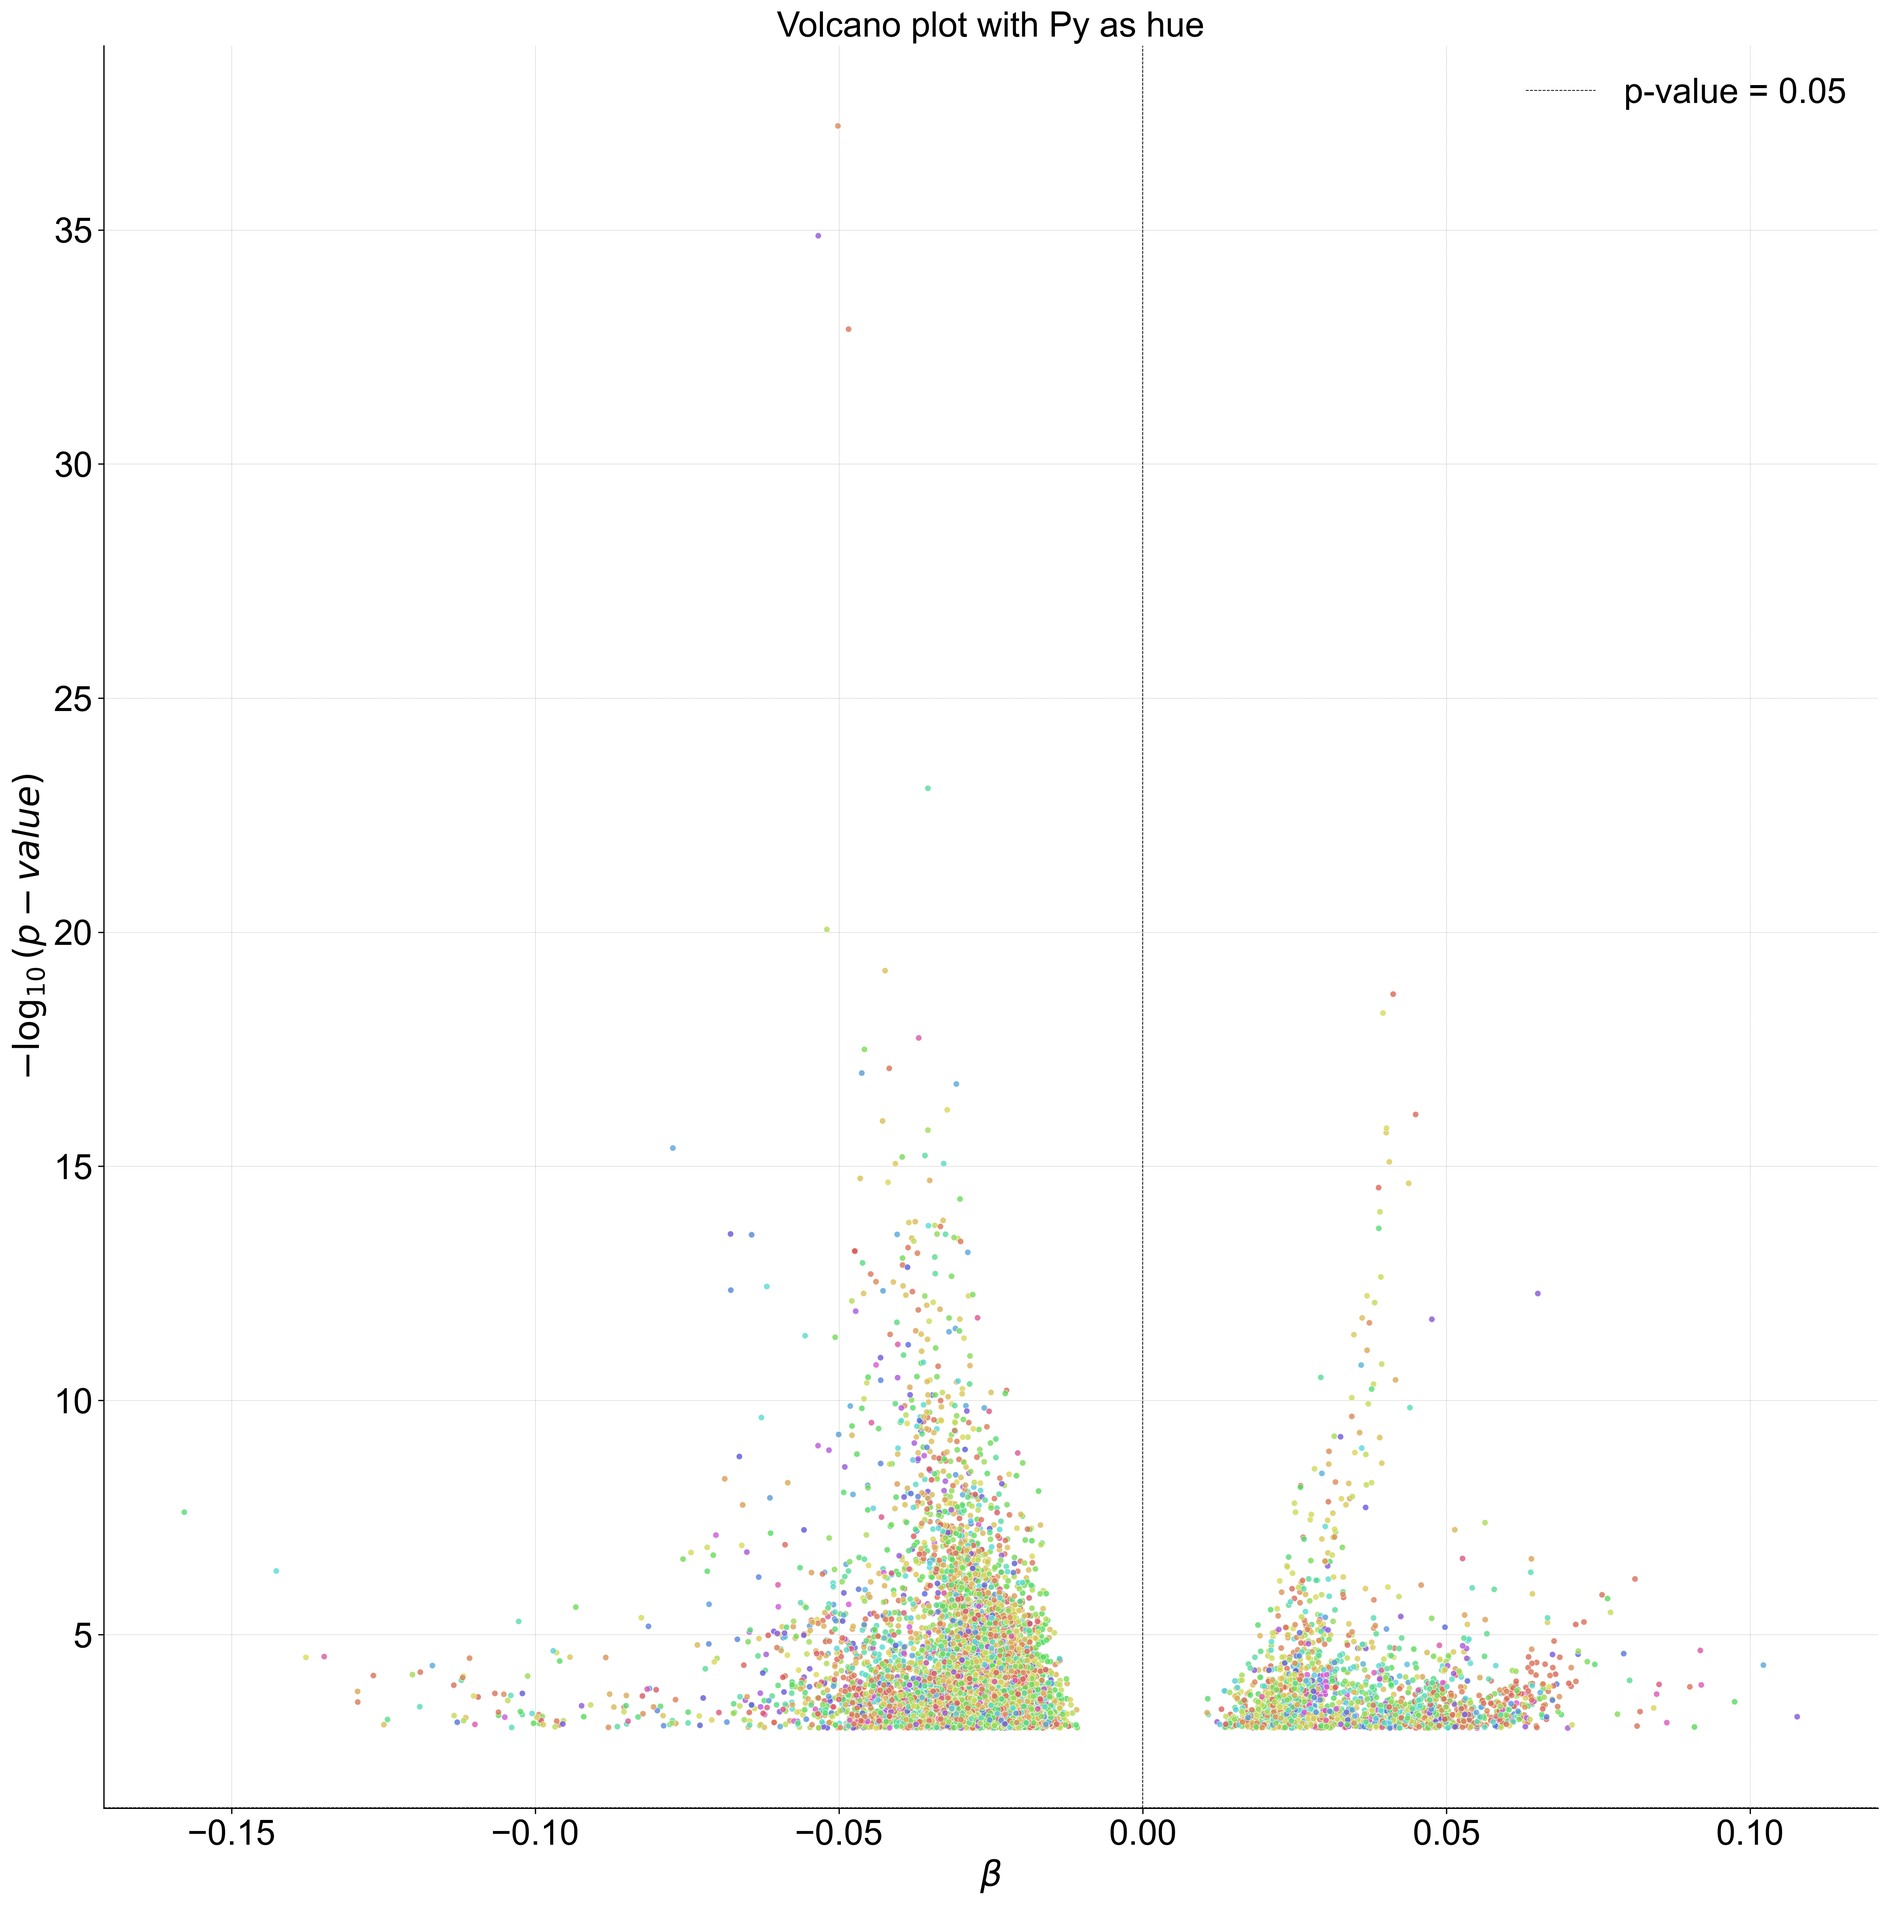
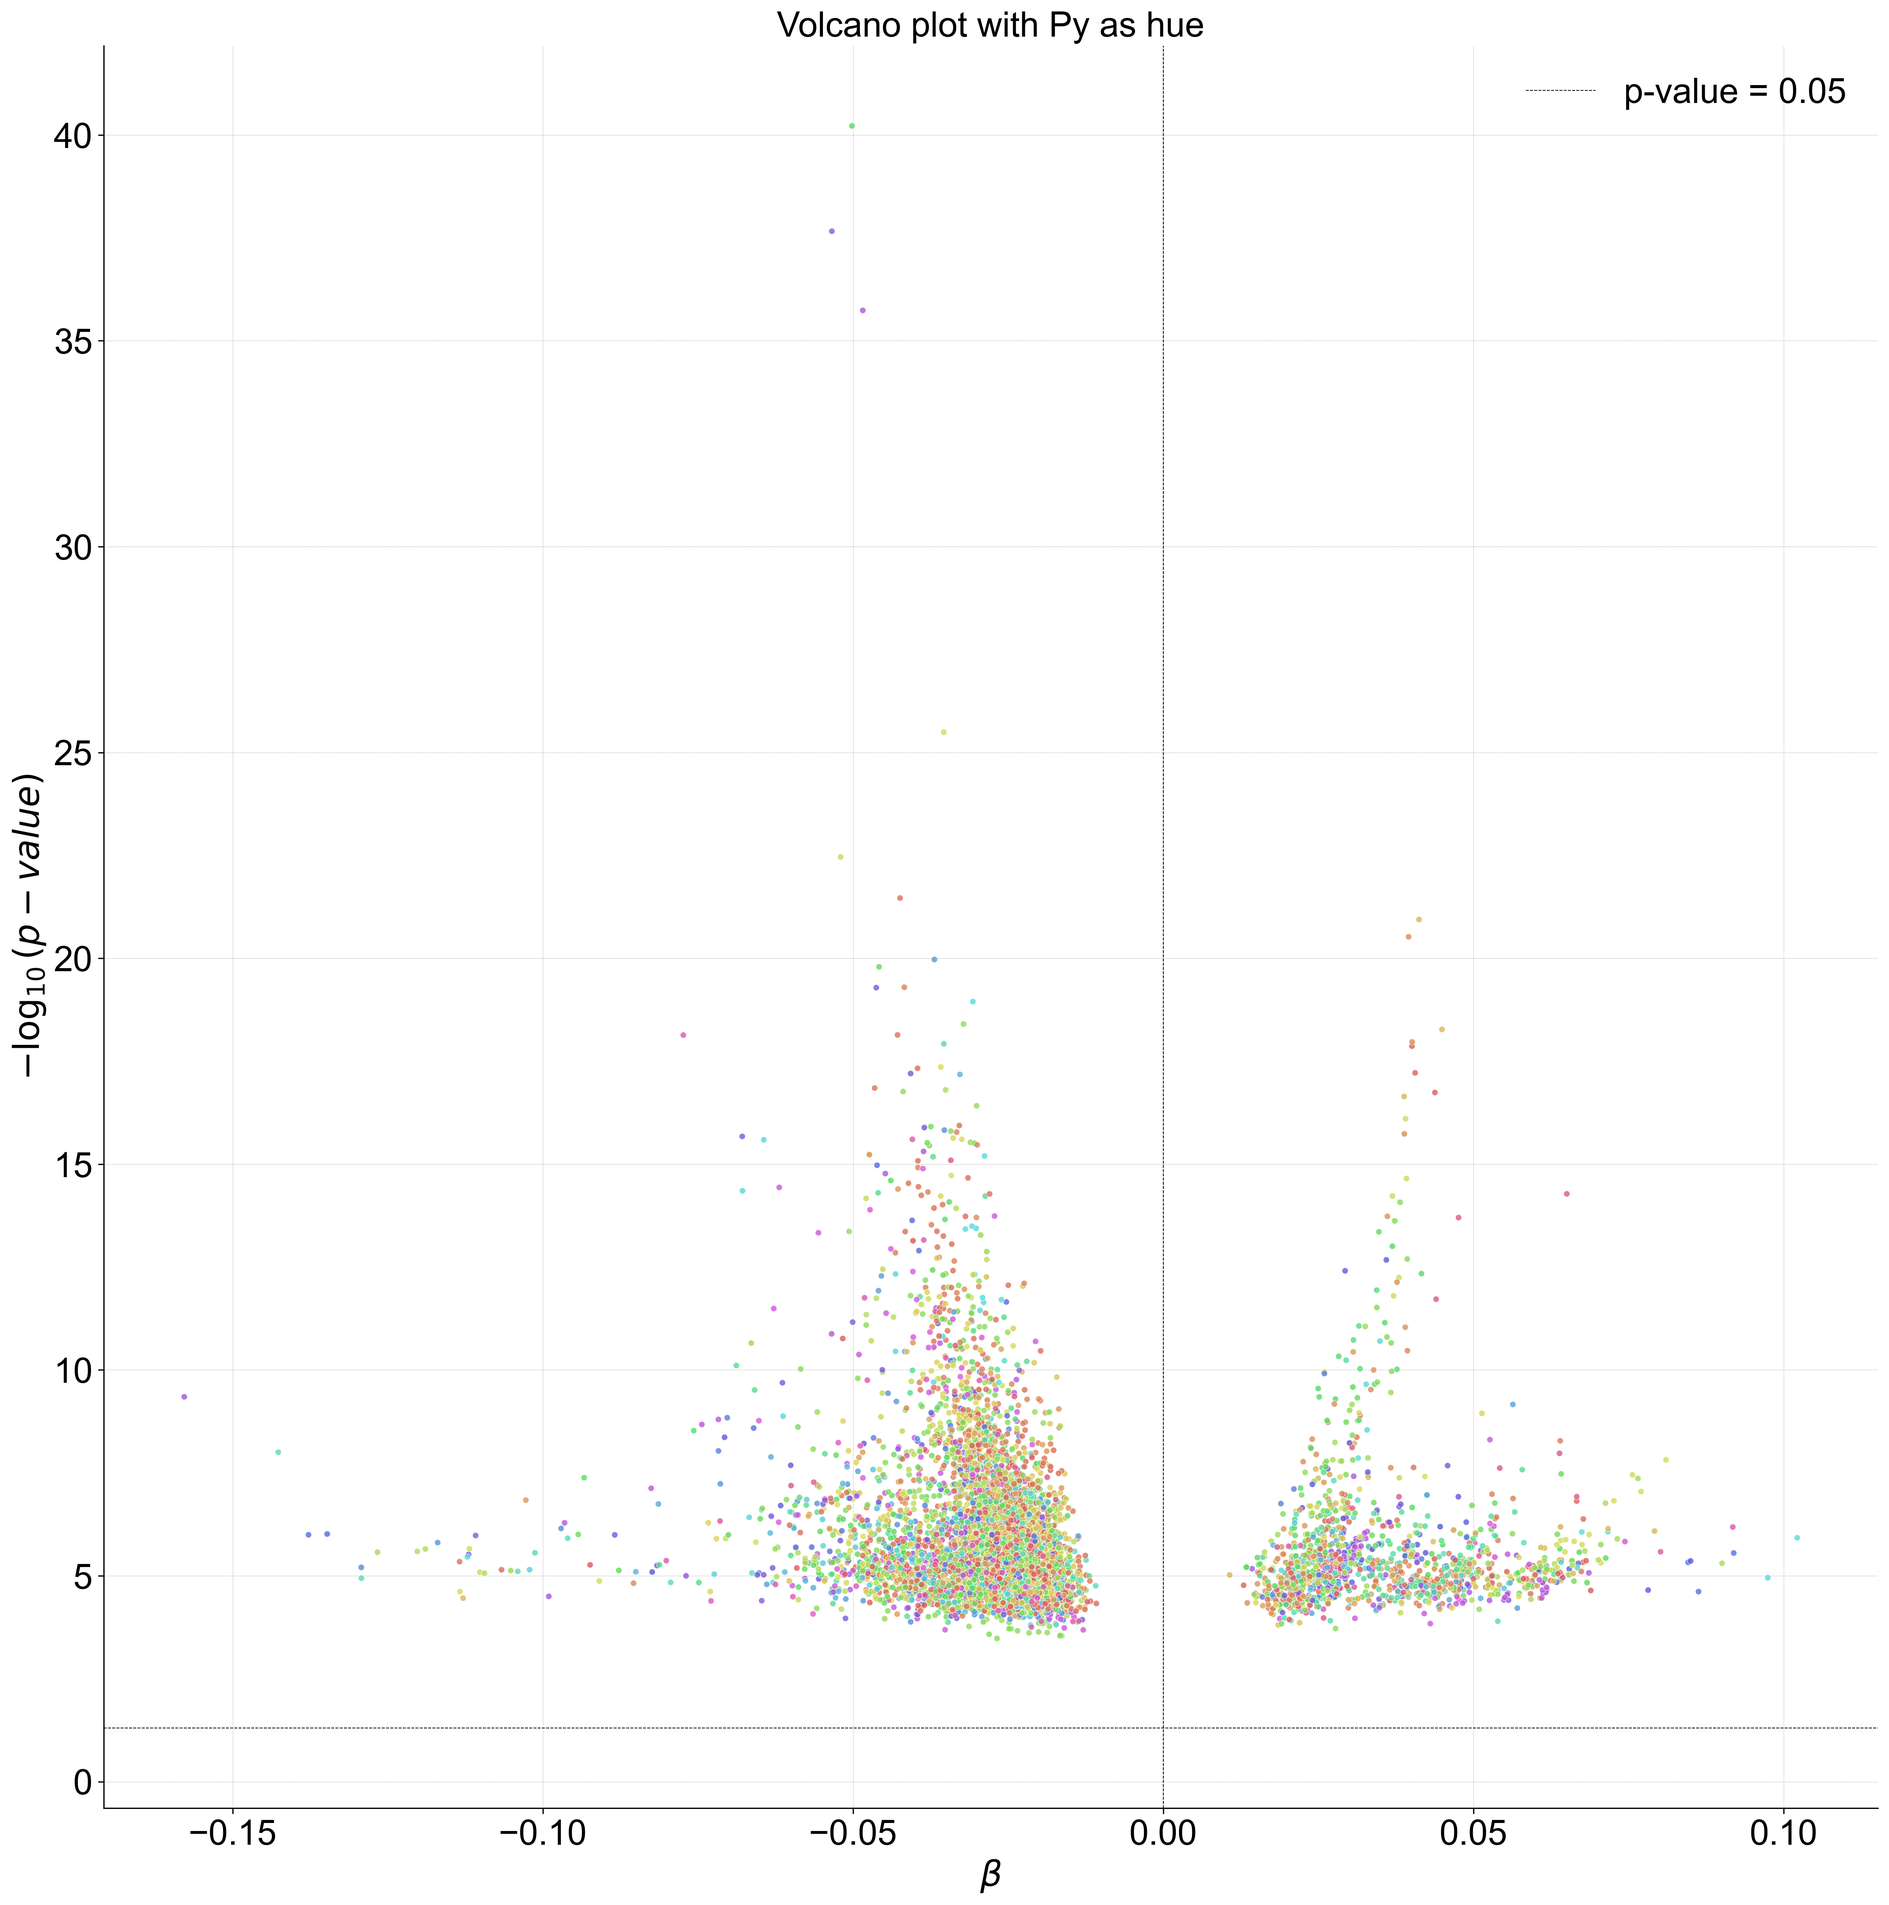
Update all volcano Plots to the correct formulation

diff --git a/src/resources/classes.py b/src/resources/classes.py
@@ -768,8 +768,7 @@ class ProteinsMatrix(MatrixData):
 
     def plotPxPy3DimContinous(self, interactionName:str, ppi:str, interactor: pd.DataFrame, typeOfInteraction:str, filepath:str|None, **annotationArgs):
         """Scatter Plot with the protein expression of two proteins and the interactor data as third dim, in a continous manner, unlike plotPxPyDrug.
-        Additionally, the plot can be annotated with the arguments passed to the function. And the Interaction data will be represented with a colorbar and
-        and an overlaying Kernel Distribution Estimation, and with size.
+        Additionally, the plot can be annotated with the arguments passed to the function. And the Interaction data will be represented with a colorbar, and with size.
 
         Args:
             interactionName (str): name of the interaction present in the interactor Dataframe
@@ -2268,7 +2267,7 @@ class DRPxPyInteractionPxModel(MatrixData):
                 
             return None
 
-    
+
     
 
     def fit(self, numOfCores = CPUS)->pd.DataFrame:
@@ -2355,8 +2354,23 @@ class DRPxPyInteractionPxModel(MatrixData):
         self.data = data
 
         return data
+    
+            
+    def classCounter(self) -> dict:
+        """Counts the number of associations in each class
 
+        Returns:
+            dict: Dictionary with the number of associations in each class
+        """
 
+        self.classCounts = {classIndex:0 for classIndex in range(1,9)}
+        data = self.data.copy()
+        dataByClasses = data.groupby('class')
+
+        for dataByClass in dataByClasses:
+            self.classCounter[dataByClass[0]] = dataByClass[1].shape[0]
+
+        return self.classCounts
 
 
 
@@ -2531,7 +2545,18 @@ class DRPxPyInteractionPxModel(MatrixData):
                     plt.close()
         
 
-    def scatterTheTopVolcano(self, pValCol:str,filepathMold:str, proteomics:ProteinsMatrix, drugRes:DrugResponseMatrix, typeOfInteraction:str, falseDiscoveryRate:float=0.01, topNumber:int=2, threhsQuantile:float=0):
+    def scatterTheTopVolcano(
+            self, 
+            pValCol:str,
+            filepathMold:str, 
+            xDataframe:pd.DataFrame, 
+            yDataframe:pd.DataFrame, 
+            hueDataframe:pd.DataFrame, 
+            typeOfInteraction:str, 
+            falseDiscoveryRate:float=0.01, 
+            topNumber:int=2, 
+            axisDictator:dict={'X':'X', 'Y':'Y', 'hue':'interactor'},
+            subplot:bool=False):
         
         data = self.data.copy()
         fdrCol = f'fdr{pValCol}'
@@ -2545,18 +2570,110 @@ class DRPxPyInteractionPxModel(MatrixData):
         top = data.iloc[0:topNumber,:]
         #reseting index
         top = top.reset_index(drop=True)
-        #iterate samples
-        for index, row in top.iterrows():
 
-            pValue = row[pValCol]
-            effectSize = row[varCol]
-            drug = ['interactor']
-            anotation = f'p-value: {pValue:.2e}\nβ: {effectSize:.2e} \ndrug: {drug} '
-            anotation = {'text':anotation, 'xy':(0.1, 0.8), 'xycoords':'axes fraction', 'fontsize':10}
-            filepath = filepathMold.split('.png')[0] + 'top'+ str(index) +'.png'
-            ppi = row['X'] + ';' + row['interactor']
+        if subplot:
+
+            sns.set(font_scale=2) # Increase font size of all labels in the subplot
+            fig, axs = plt.subplots(round(topNumber/2), 2, figsize=(round(topNumber/2)*10, round(topNumber/2)*10))
+            # Adjust spacing between subplots
+            plt.subplots_adjust(hspace=0.5, wspace=0.1)
+            #iterate samples    
+            for index, row in top.iterrows():
+
+                ax = axs.flat[index]
+                pValue = row[pValCol]
+                effectSize = row[varCol]
+                hue = row[axisDictator['hue']]
+                X = row[axisDictator['X']]
+                Y = row[axisDictator['Y']]
+                annotation = f'p-value: {pValue:.2e}\nβ: {effectSize:.2e}'
+                annotation = {'text':annotation, 'xy':(0.1, 0.8), 'xycoords':'axes fraction', 'fontsize':20}
+
+
+                hueData = hueDataframe.loc[:,[hue]]
+                XData = xDataframe.loc[:,[X]]
+                YData = yDataframe.loc[:,[Y]]
+
+                samplesInCommon = list(set.intersection(set(hueData.index), set(XData.index), set(YData.index)))
+                hueData = hueData.loc[samplesInCommon]
+                XData = XData.loc[samplesInCommon]
+                YData = YData.loc[samplesInCommon]
+
+                plottingData = pd.concat([XData, YData], axis=1)
+                plottingData = pd.DataFrame(StandardScaler().fit_transform(plottingData) ,columns=plottingData.columns, index=plottingData.index)
+
+                #Add interactor
+                plottingData = plottingData.join(hueData, how = 'inner')
+
+                scatter = sns.scatterplot(data=plottingData, x=X, y=Y, hue=hue, size=hue, palette="viridis", alpha=1, edgecolor='none', s=15, ax=ax)
+                norm = matplotlib.colors.Normalize(vmin=hueData.min(), vmax=hueData.max())
+                # Add Colour Map
+                sm = plt.cm.ScalarMappable(cmap="viridis", norm=norm)
+                sm.set_array([])
+                scatter.get_legend().remove()
+                scatter.figure.colorbar(sm, label=hue, ax=ax)
+
+                ax.set_title(f'Protein expression \n with {typeOfInteraction}')
+                ax.set_xlabel(str(X))
+                ax.set_ylabel(str(Y))
+                ax.annotate(annotation['text'], xy=annotation['xy'], xycoords=annotation['xycoords'], fontsize=annotation['fontsize'])
+
+            fig.suptitle(f'Top {topNumber} associations', fontsize=32)
+
             
-            proteomics.plotPxPy3DimContinous(drug, ppi, drugRes.data, typeOfInteraction,filepath, **anotation)
+            filepath = filepathMold.split('.png')[0] + 'topCombined.png'
+            plt.savefig(filepath, bbox_inches="tight")
+
+
+
+        else:    
+            #iterate samples    
+            for index, row in top.iterrows():
+
+                pValue = row[pValCol]
+                effectSize = row[varCol]
+                hue = row[axisDictator['hue']]
+                X = row[axisDictator['X']]
+                Y = row[axisDictator['Y']]
+                annotation = f'p-value: {pValue:.2e}\nβ: {effectSize:.2e}'
+                annotation = {'text':annotation, 'xy':(0.1, 0.8), 'xycoords':'axes fraction', 'fontsize':10}
+
+
+                hueData = hueDataframe.loc[:,[hue]]
+                XData = xDataframe.loc[:,[X]]
+                YData = yDataframe.loc[:,[Y]]
+
+                samplesInCommon = list(set.intersection(set(hueData.index), set(XData.index), set(YData.index)))
+                hueData = hueData.loc[samplesInCommon]
+                XData = XData.loc[samplesInCommon]
+                YData = YData.loc[samplesInCommon]
+
+                plottingData = pd.concat([XData, YData], axis=1)
+                plottingData = pd.DataFrame(StandardScaler().fit_transform(plottingData) ,columns=plottingData.columns, index=plottingData.index)
+
+                #Add interactor
+                plottingData = plottingData.join(hueData, how = 'inner')
+
+                plt.figure(figsize=(10, 10))
+                scatter = sns.scatterplot(data=plottingData, x=X, y=Y, hue=hue, size=hue, palette="viridis", alpha=1, edgecolor='none', s=15)
+                norm = matplotlib.colors.Normalize(vmin=hueData.min(), vmax=hueData.max())
+                # Add Colour Map
+                sm = plt.cm.ScalarMappable(cmap="viridis", norm=norm)
+                sm.set_array([])
+                scatter.get_legend().remove()
+                scatter.figure.colorbar(sm, label=hue)
+
+                plt.title(f'Protein expression \n with {typeOfInteraction}')
+                plt.xlabel(str(X))
+                plt.ylabel(str(Y))
+                plt.annotate(annotation['text'], xy=annotation['xy'], xycoords=annotation['xycoords'], fontsize=annotation['fontsize'])
+                
+                filepath = filepathMold.split('.png')[0] + 'top'+ str(index) +'.png'
+
+                plt.savefig(filepath, bbox_inches="tight")
+
+            
+            
 
     def getTopTable(self, topNumber:int, pValCol:str, filepath:str, falseDiscoveryRate:float=0.01):
 
@@ -2711,7 +2828,7 @@ class DRPxPyInteractionPxModel(MatrixData):
             else:
                 filepath = None
             ppi = row['info']['Px'] + ';' + row['info']['Py']
-            proteomics.plotPxPy3DimContinous(drug, ppi, drugRes.data.T, typeOfInteraction, filepath, **anotation)
+            proteomics.plotPxPy3DimContinous(drug, ppi, drugRes.data.T, typeOfInteraction, filepath, False, **anotation)
 
 
 
@@ -3159,7 +3276,7 @@ class PyPxDrugInteractionModel(MatrixData):
             anotation = {'text':anotation, 'xy':(0.1, 0.8), 'xycoords':'axes fraction', 'fontsize':10}
             filepath = filepathMold.split('.png')[0] + 'top'+ str(index) +'.png'
             ppi = row['info']['Px'] + ';' + row['info']['Py']
-            proteomics.plotPxPy3DimContinous(drug, ppi, drugRes.data, typeOfInteraction,filepath, **anotation)
+            proteomics.plotPxPy3DimContinous(drug, ppi, drugRes.data, typeOfInteraction,filepath, False, **anotation)
 
     def triangulate(
             self, 
@@ -3296,4 +3413,4 @@ class PyPxDrugInteractionModel(MatrixData):
             else:
                 filepath = None
             ppi = row['info']['Px'] + ';' + row['info']['Py']
-            proteomics.plotPxPy3DimContinous(drug, ppi, drugRes.data.T, typeOfInteraction, filepath, **anotation)
+            proteomics.plotPxPy3DimContinous(drug, ppi, drugRes.data.T, typeOfInteraction, filepath, False, **anotation)

diff --git a/src/interactionModel.py b/src/interactionModel.py
@@ -84,52 +84,41 @@ if __name__ == '__main__':
 
     
     dummy:DRPxPyInteractionPxModel = read(PATH + '/internal/interactionModel/GLPPValueVAEProteomicsCorum1FDRless0.01/interactionModelV.pickle.gz')
-    dummy.addBiologicalClasses()
-    dummy.write()
-    dummy.pValsHistogram('pValsHistogramCorumDR.png')
+   
+    # dummy.pValsHistogram('pValsHistogramCorumDR.png')
 
     for col in ['interactionPValue', 'interactorPValue', 'XPValue']:
         dummy.volcanoPlot(f'volcanoPlotModelVCorum{col}DR.png', col, extraFeatures = True)
-        dummy.getTopTable(10, col, filepath = f'topTableCorum{col}DR.csv')
     
-    print("done")
+
 
     dummy:DRPxPyInteractionPxModel = read(PATH + '/internal/geneInteractionModel/GLSPValueVAEProteomicsCorum1FDRless0.01/interactionModelV.pickle.gz')
-    dummy.addBiologicalClasses()
-    dummy.write()
-    dummy.pValsHistogram('pValsHistogramCorumGeneDependency.png')
+
+    # dummy.pValsHistogram('pValsHistogramCorumGeneDependency.png')
 
     for col in ['interactionPValue', 'interactorPValue', 'XPValue']:
         dummy.volcanoPlot(f'volcanoPlotModelVCorum{col}GeneDependency.png', col, extraFeatures = True)
-        dummy.getTopTable(10, col, filepath = f'topTableCorum{col}GeneDependency.csv')
     
-    print("done")
 
     dummy:DRPxPyInteractionPxModel = read(PATH + '/internal/interactionModel/String900orBiogrid/interactionModelV.pickle.gz')
-    dummy.addBiologicalClasses()
-    dummy.write()
-    dummy.pValsHistogram('pValsHistogramString900andBiogridDR.png')
+
+    # dummy.pValsHistogram('pValsHistogramString900andBiogridDR.png')
     
     for col in ['interactionPValue', 'interactorPValue', 'XPValue']:
         dummy.volcanoPlot(f'volcanoPlotModelVString900andBiogrid{col}DR.png', col, extraFeatures = True)
-        dummy.getTopTable(10, col, filepath = f'topTableString900orBiogrid{col}DR.csv')
     
-    print("done")
 
     dummy:DRPxPyInteractionPxModel = read(PATH + '/internal/geneInteractionModel/String900orBiogrid/interactionModelV.pickle.gz')
-    dummy.addBiologicalClasses()
-    dummy.write()
-    dummy.pValsHistogram('pValsHistogramString900andBiogridGeneDependency.png')
+
+    # dummy.pValsHistogram('pValsHistogramString900andBiogridGeneDependency.png')
     
     for col in ['interactionPValue', 'interactorPValue', 'XPValue']:
         dummy.volcanoPlot(f'volcanoPlotModelVString900andBiogrid{col}GeneDependecy.png', col, extraFeatures = True)
-        dummy.getTopTable(10, col, filepath = f'topTableString900orBiogrid{col}GeneDependency.csv')
     
-    print("done")
 
 
 
     # dummy.triangulate(-0.06, 0.06, 35, 45, 'Drug Response', 100, 'test.png', True)
     # drugRes.data = drugRes.data.T
-    # dummy.scatterTheTopVolcano('topVolcanoPlotScatter.png', ogProteomics, drugRes.data, topNumber=10)
+    # dummy.scatterTheTopVolcano('interactionPValue','topVolcanoPlotScatter.png', ogProteomics.data, ogProteomics.data, drugRes.data, 'Drug Response', topNumber=10, axisDictator={'X': 'X', 'Y':'interactor', 'hue':'Y'}, subplot=False)
 
